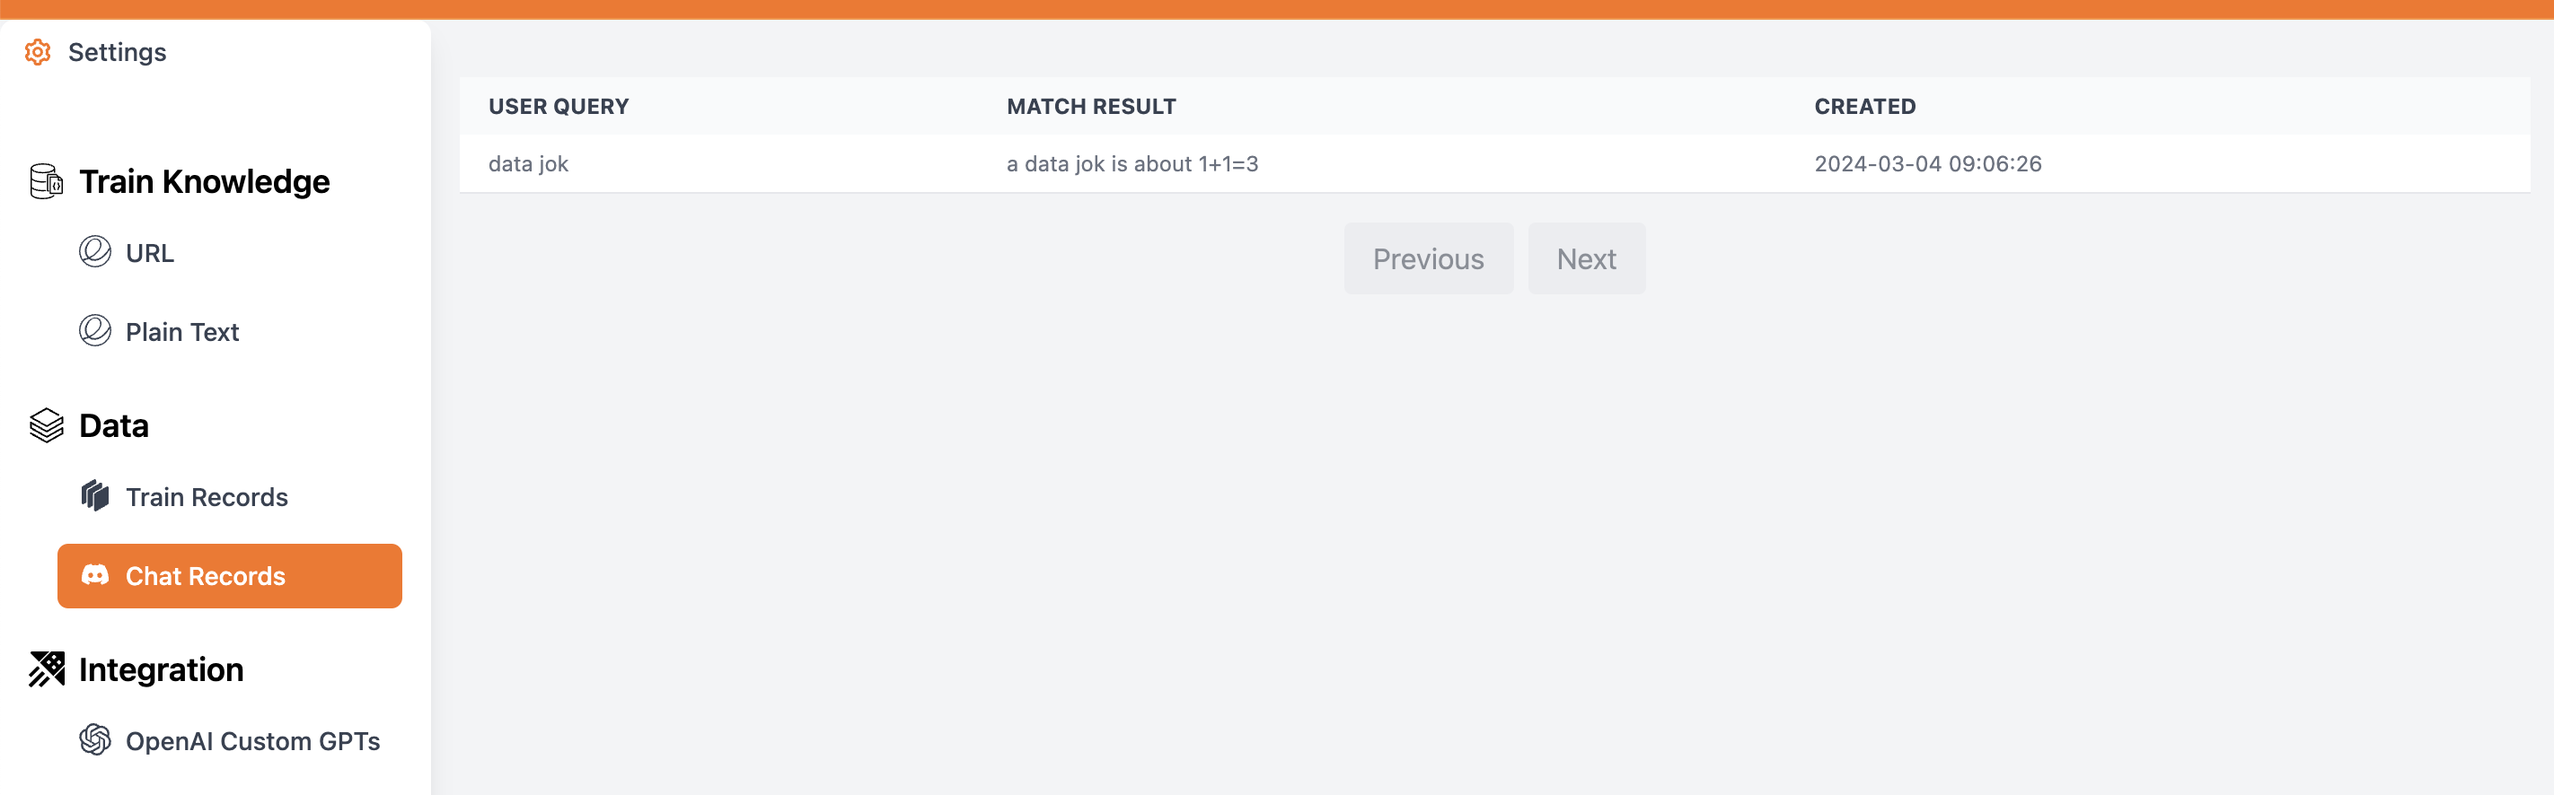
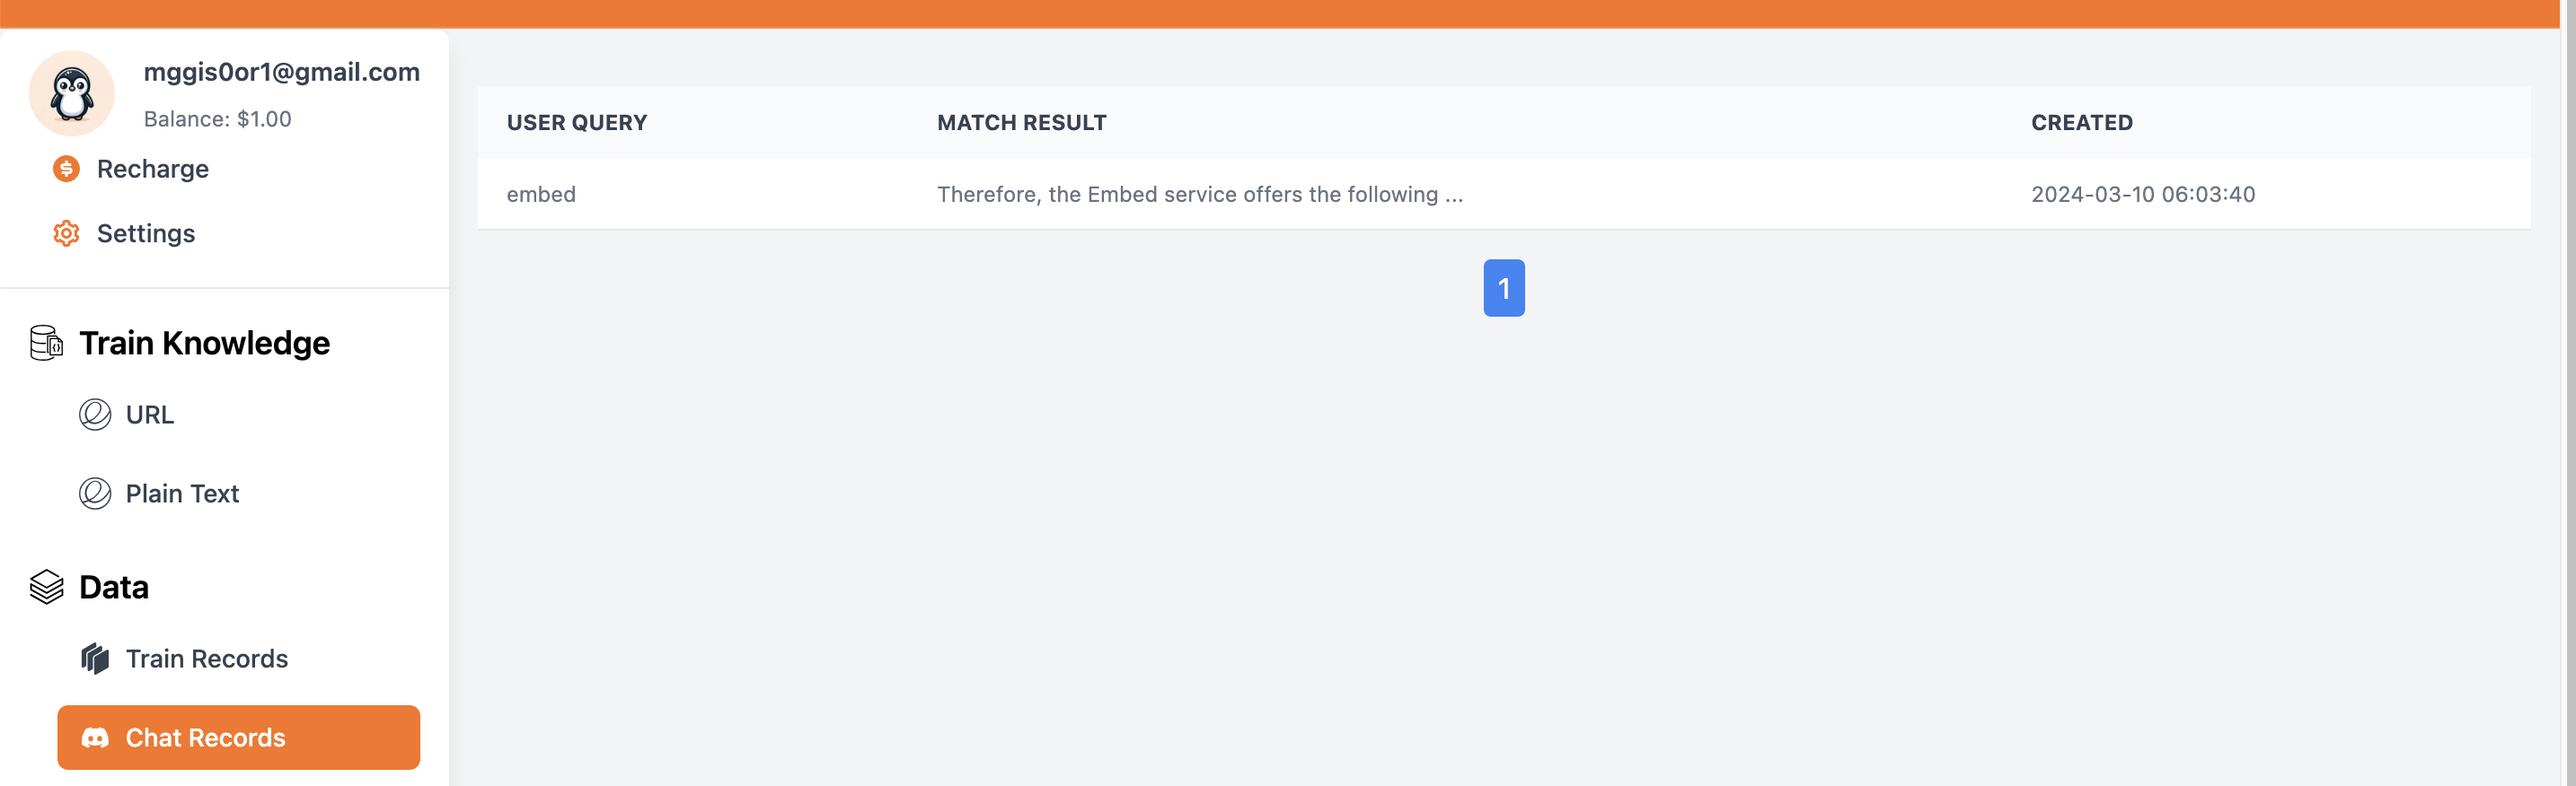
update

diff --git a/content/embed/quickstart.md b/content/embed/quickstart.md
@@ -1,0 +1,94 @@
+---
+title: "Introduce Embed: Quickstart"
+date: 2024-03-10
+draft: false
+description: "Learn how to train your own knowledge base and effortlessly integrate with OpenAI's custom GPTs for increasingly accurate responses based on user inquiries."
+categories: ["embed"]
+tags: ["embed"]
+toc: true
+featured_image: ../assets/images/featured/access-to-gpts.webp
+---
+
+
+# Quickstart
+This article introduces how to train your own knowledge base and seamlessly integrate with OpenAI custom GPTs. By refining our knowledge base in response to user questions, we can provide increasingly accurate answers.
+
+## Background
+The functionality of OpenAI custom GPTs' knowledge bases has been significantly reduced. Currently, uploaded files can only be utilized by Python code and cannot accurately provide context for user chats. OpenAI notes that:
+```
+If you upload files under Knowledge, 
+conversations with your GPT may include file contents. 
+Files can be downloaded when Code Interpreter is enabled
+```
+
+Therefore, the Embed service offers the following functionalities:
+1. Train your own knowledge base.
+2. Easily integrate any chatbot.
+3. Record user queries for continuous optimization. If a match is found to be inaccurate, we can retrain the knowledge base and monitor daily activity.
+
+
+## Training Knowledge
+We will train a robot on GPT development, focusing on data sources such as URLs, documents (e.g., PDF, Word)...
+### Train URL
+Fill in the URL and description. The description is used to match user queries.
+![Embed Train Url](/images/embed/train_url.png)
+
+### Train Text
+For documents like PDFs and Word files, we can extract the text. This text, along with a summary or the extracted text itself, can be used to train the model to match user queries.
+![Embed Train Text](/images/embed/train_text.png)
+
+### Train Records
+After successful training, we can view the training records. If the subsequent chat matching is too poor, we can retrain.
+![Embed Train Records](/images/embed/train_records.png)
+
+
+## Integrating OpenAI Custom GPTs
+Incorporating OpenAI Custom GPTs into your services enriches the interaction by leveraging specialized knowledge bases. This integration follows a straightforward two-step process:
+1. **Acquiring an API Key**.
+2. **Creating OpenAI Custom Actions**.
+
+### Acquiring an API Key
+Start by accessing the Embed service page and navigate to the Settings section. Here, you'll find the API key which you need to copy. This key serves as a token for authenticating your requests to the OpenAI services.
+![API Key Settings](/images/embed/setting.png)
+
+Once you have the API token, move to the OpenAI GPTs action configuration page. Here, set the authentication type to Bearer and paste the previously copied API key into the designated field, ensuring secure communication between your service and OpenAI.
+![API Key Configuration](/images/embed/api_key.png)
+
+### Creating OpenAI Custom Actions
+Proceed to the Embed service's OpenAI Custom GPTs integration section. This step involves specifying the action's name, providing a descriptive summary, and setting your privacy preferences. Confirm these details by clicking 'save'.
+![Action Creation](/images/embed/action_create.png)
+
+Upon saving, you'll see an 'Integrate' button. Clicking this button reveals the YAML definition of the action and the privacy URL, both critical for the next steps of integration.
+![Action Definition](/images/embed/action_define.png)
+
+Copy these details into the appropriate fields within the OpenAI action definition and privacy link sections, completing the setup process.
+![Action Configuration](/images/embed/action_config.png)
+
+### Letting GPTs Use This Action
+To empower GPTs with this custom action, use the following structured prompt. It instructs the GPT on how to access and utilize the `getKnowledge` action to fetch relevant information from the trained knowledge base for answering user queries accurately.
+```
+To answer user's questions you will search the right getKnowledge 
+by calling the action 'getKnowledge'
+```
+
+
+## Chat & Continuous Optimization
+
+### Chat
+To ensure your integration is set up correctly, start by testing it through the OpenAI GPTs interface. Enter a query that your knowledge base should be able to answer. A successful test indicates that the GPTs can accurately retrieve and use the information from your trained knowledge base, confirming a correct configuration.
+
+![Action Test](/images/embed/gpt_chat.png)
+
+### Reviewing Chat Records
+
+The Embed service also offers a valuable feature for ongoing improvement: the ability to review chat records. This allows you to see the questions users have asked and how well the responses matched the training data. Analyzing these interactions is crucial for identifying areas where the knowledge base can be enhanced to better meet user needs.
+
+![Chat Records](/images/embed/chat_records.png)
+
+### Continuous Optimization
+
+Satisfaction with responses is key. If a response to a user query does not meet your expectations, you have the option to refine and expand your knowledge base. Visit the Train Records section and use the Retrain option to enrich the descriptions of your knowledge. This process includes adjusting and adding varied perspectives to better align with user queries, enabling continuous optimization and improvement of response accuracy.
+
+## Conclusion
+
+Building and maintaining a responsive and accurate chat service requires ongoing effort and refinement. The tools provided by Embed for training, integrating, and optimizing your knowledge base are designed to facilitate this process, ensuring that your chatbot remains a valuable resource for users. For further assistance or inquiries, feel free to [contact us](/contact).
